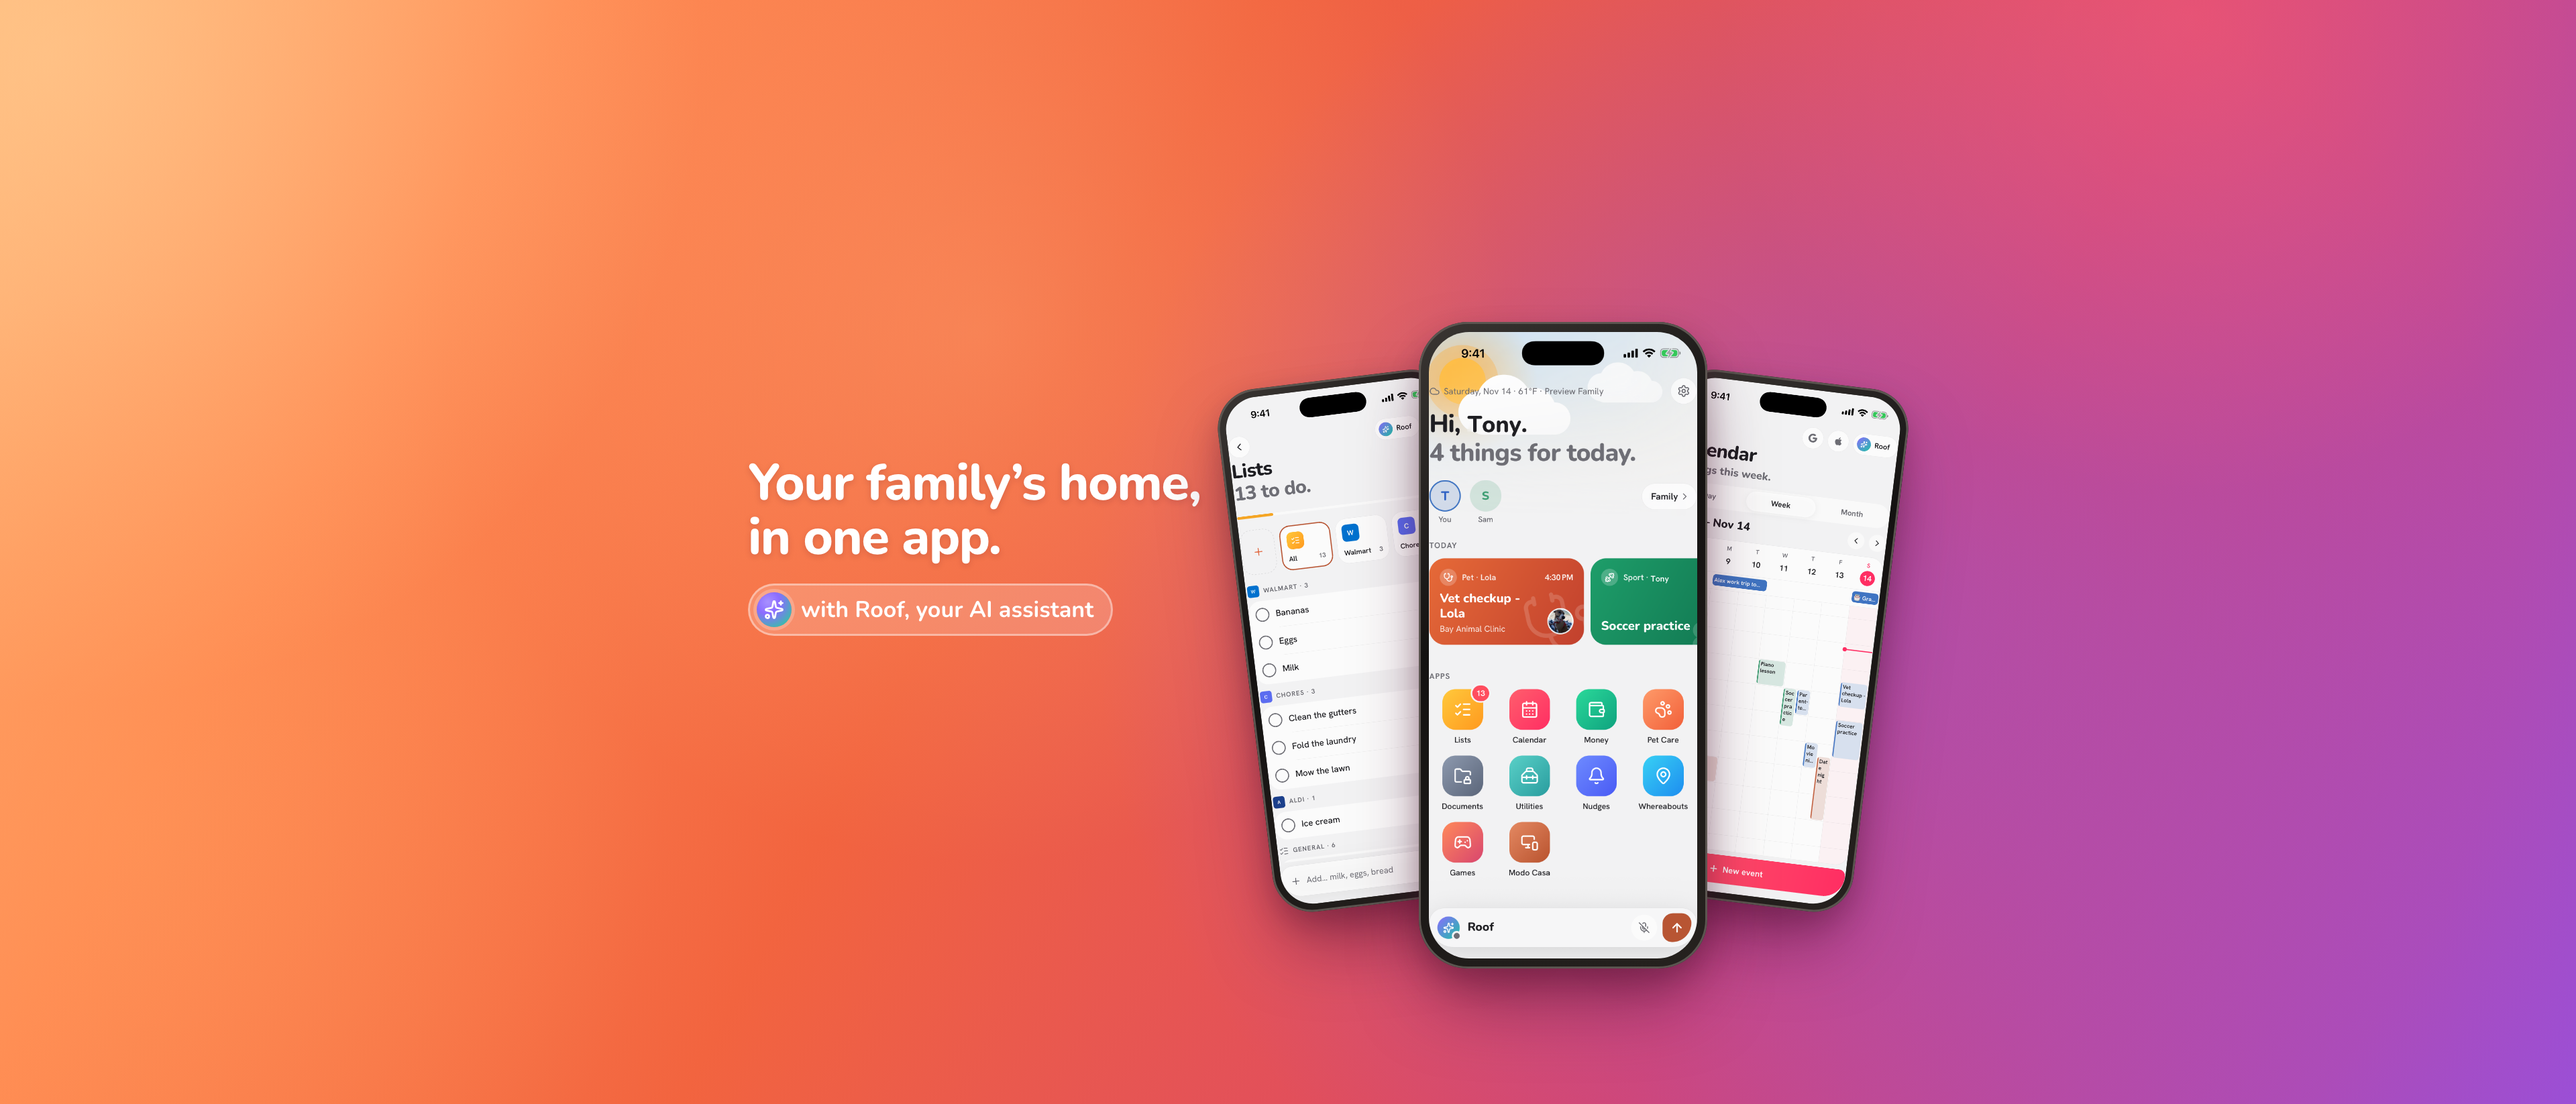
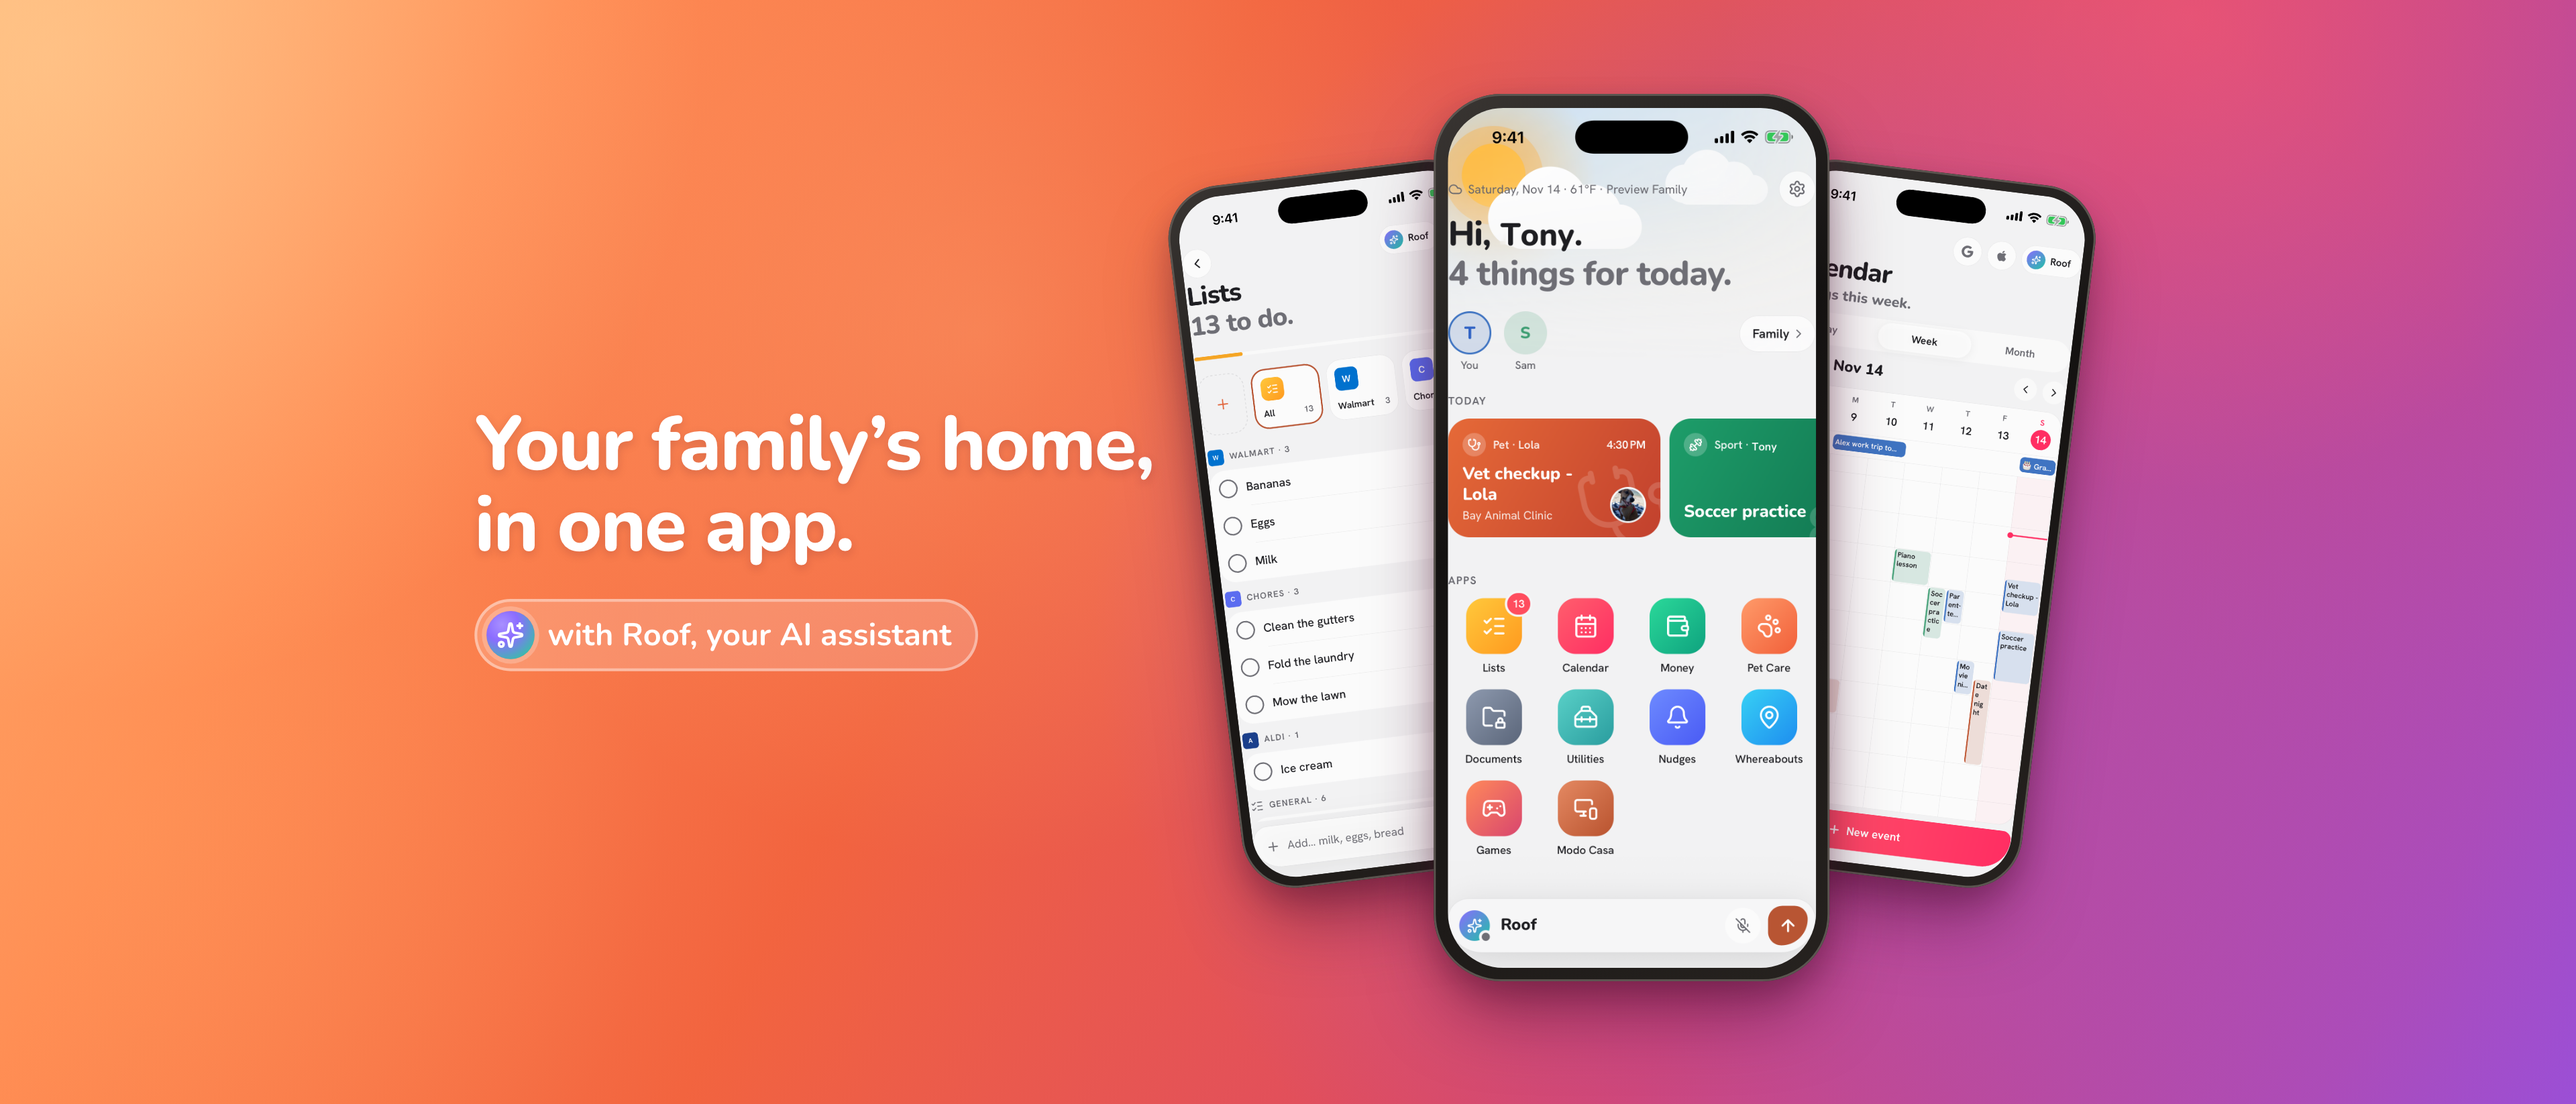
App Store header: text and phones bigger and centred as one group

Changed region(s): [[0.1875, 0.062, 0.8125, 0.9295]]

diff --git a/mobile/store/app-store-creative/creative.html b/mobile/store/app-store-creative/creative.html
@@ -310,15 +310,17 @@ if (P.core === 'wide') {
       <img src="${img}" style="border-radius:${w * 0.14}px"></div>`
   }
   const words = TT[0].replace(/,? in one app\.|,? num app só\.|,? en una app\./, m => (m.startsWith(',') ? ',' : '') + '<br>' + m.replace(/^,?\s*/, ''))
-  const pc = 2330, wc = 430, ws = 350
-  html = `<div class="title" style="--fs:76px;left:1115px;top:680px;line-height:1.06">${words}</div>`
-    + `<div style="position:absolute;left:1115px;top:870px;display:flex;align-items:center;gap:14px;background:rgba(255,255,255,.18);border:3px solid rgba(255,255,255,.4);border-radius:999px;padding:10px 26px 10px 10px;font:700 34px/1 'Nunito'">
+  // Owner, 2026-11-25: the group read off to the right on the phone crop —
+  // laid out loosely here, then measured and centred on the canvas (below).
+  const pc = 2330, wc = 590, ws = 470
+  html = `<div class="title" data-g="t" style="--fs:114px;left:1115px;top:600px;line-height:1.06">${words}</div>`
+    + `<div data-g="t" style="position:absolute;left:1115px;top:890px;transform:scale(1.38);transform-origin:0 0;display:flex;align-items:center;gap:14px;background:rgba(255,255,255,.18);border:3px solid rgba(255,255,255,.4);border-radius:999px;padding:10px 26px 10px 10px;font:700 34px/1 'Nunito'">
         <span style="width:52px;height:52px;border-radius:50%;display:inline-flex;align-items:center;justify-content:center;box-shadow:0 0 0 5px rgba(255,255,255,.22);background:radial-gradient(circle at 32% 28%, #A890FF 0%, #8B6CFF 35%, #3FB7B0 78%, #20C3A6 100%)">
           <svg viewBox="0 0 24 24" style="width:30px;height:30px;fill:none;stroke:#fff;stroke-width:2.2;stroke-linecap:round;stroke-linejoin:round">${ICON.spark}</svg></span>
         ${TT[1]}</div>`
-    + dev('lists.png', ws, pc - 1.22 * ws, 560, -7, 4)
-    + dev('calendar.png', ws, pc + 0.22 * ws, 560, 7, 4)
-    + dev('hero.png', wc, pc - wc / 2, 480, 0, 6);
+    + dev('lists.png', ws, pc - 1.22 * ws, 250, -7, 4)
+    + dev('calendar.png', ws, pc + 0.22 * ws, 250, 7, 4)
+    + dev('hero.png', wc, pc - wc / 2, 140, 0, 6);
 } else if (P.core === 'home') {
   CW = P.W; CH = P.H;
   // A crop of a real screen on a white card, with the feature's name on a pill.
@@ -363,6 +365,25 @@ const k = ['close', 'fan', 'tiles', 'cols', 'home', 'trio', 'trioh'].includes(P.
 const flat = ['close', 'fan', 'tiles', 'cols', 'home', 'trio', 'trioh'].includes(P.core)
 const ox = flat ? 0 : sx + (sw - CW * k) / 2, oy = flat ? 0 : sy + (sh - CH * k) / 2;
 core.style.transform = `translate(${ox}px, ${oy}px) scale(${k})`;
+if (P.core === 'trioh') {
+  // Pull the phones to a fixed gap after the text, then centre text + phones
+  // as ONE group on the canvas (= on Apple's safe area, which is centred).
+  const box = els => els.reduce((b, e) => { const r = e.getBoundingClientRect()
+    return { l: Math.min(b.l, r.left), r: Math.max(b.r, r.right), t: Math.min(b.t, r.top), b: Math.max(b.b, r.bottom) } },
+    { l: 1e9, r: -1e9, t: 1e9, b: -1e9 })
+  const text = [...core.querySelectorAll('[data-g="t"]')]
+  const devs = [...core.querySelectorAll('.device')]
+  const tb = box(text), db = box(devs)
+  const shift = tb.r + 90 - db.l
+  devs.forEach(d => { d.style.left = (parseFloat(d.style.left) + shift) + 'px' })
+  const g = box([...text, ...devs])
+  // phones' visual middle (the screens, not the drop shadow) on the canvas middle
+  core.style.transform = `translate(${P.W / 2 - (g.l + g.r) / 2}px, 0px)`
+  // text vertically centred on the middle phone
+  const hb = devs[2].getBoundingClientRect(), mid = (hb.top + hb.bottom) / 2
+  const dy = mid - (tb.t + tb.b) / 2
+  text.forEach(e => { e.style.top = (parseFloat(e.style.top) + dy) + 'px' })
+}
 
 // ---- glows ----
 const glows = [
